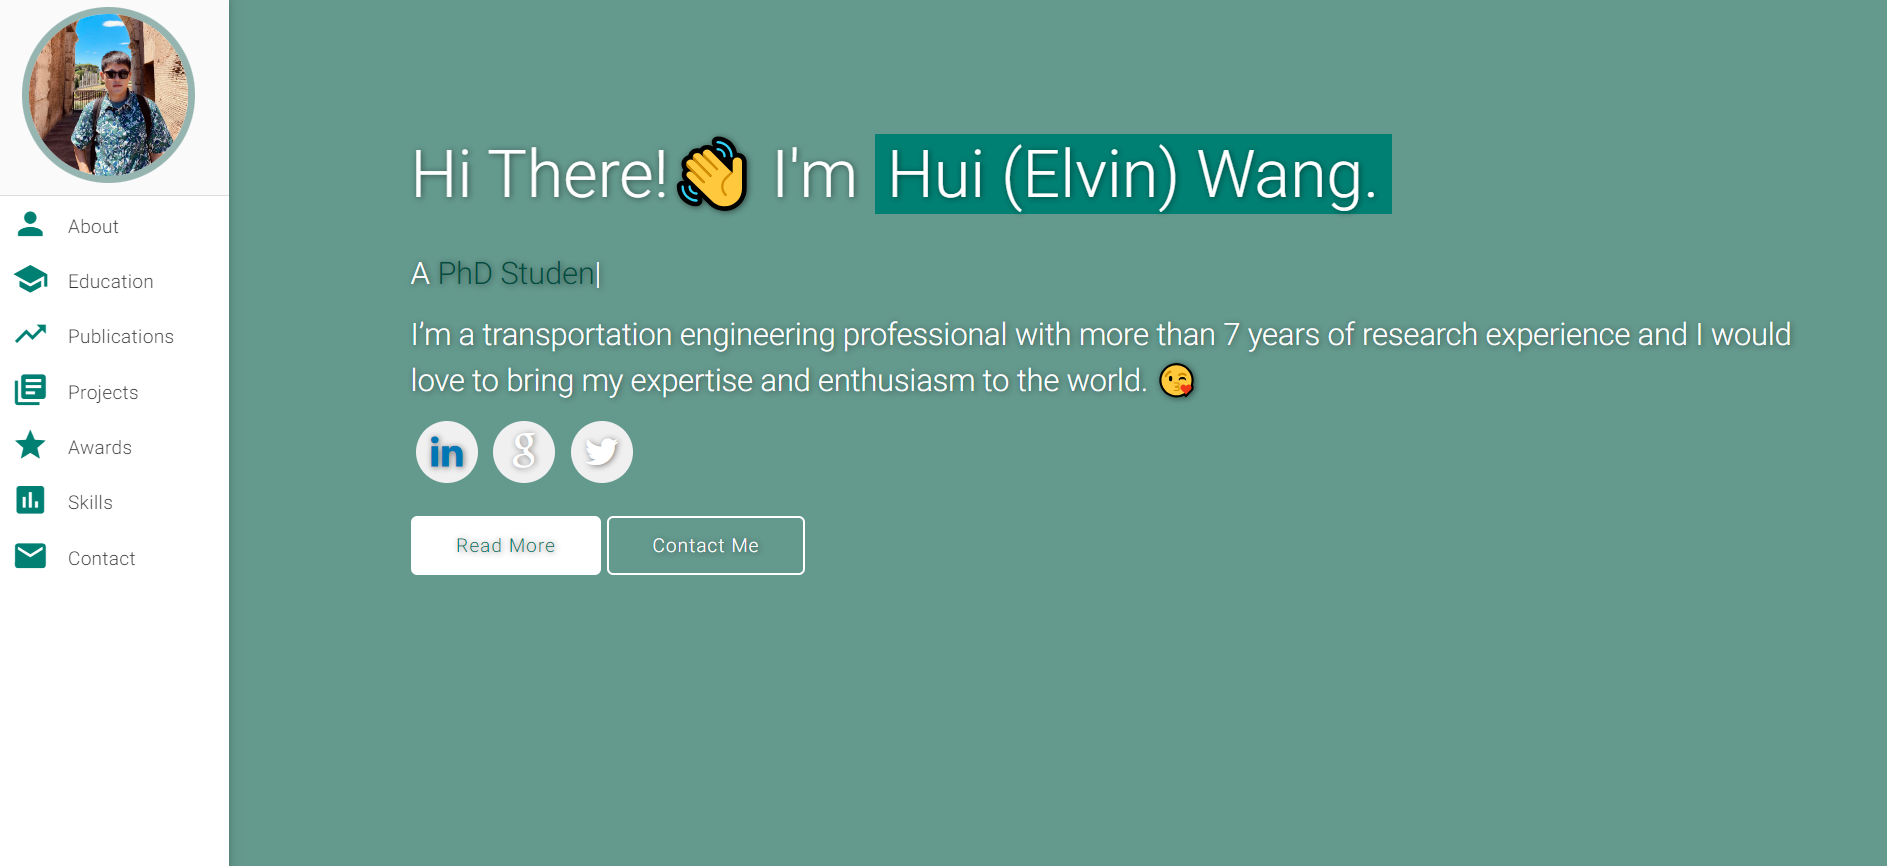
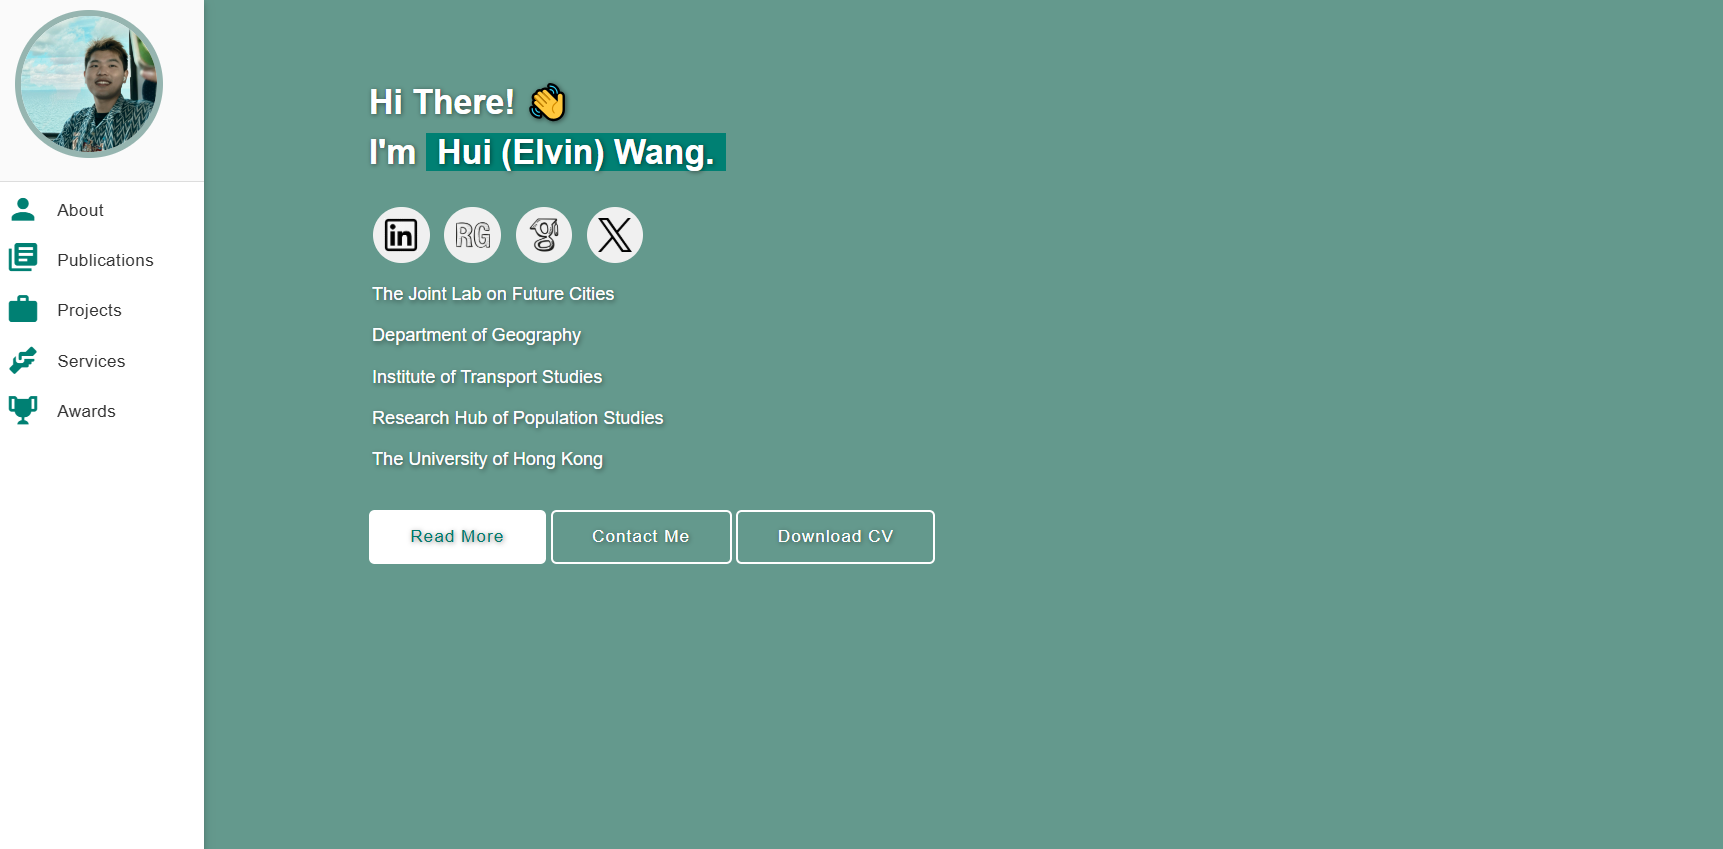
GH

diff --git a/index.html b/index.html
@@ -56,10 +56,10 @@
         <!-- Open Graph -->
         <meta property="og:locale" content="en_US" />
         <meta property="og:type" content="website" />
-        <meta property="og:title" content="Hui Wang | Researcher" />
-        <meta property="og:description" content="Researcher" />
+        <meta property="og:title" content="Hui Wang @ HKU" />
+        <meta property="og:description" content="Hui Wang @ HKU" />
         <meta property="og:url" content="https://huiwanghk.github.io/" />
-        <meta property="og:site_name" content="Hui Wang | Researcher" />
+        <meta property="og:site_name" content="Hui Wang @ HKU" />
         <meta
             property="article:publisher"
             content="https://huiwanghk.github.io/"
@@ -71,18 +71,12 @@
 
         <!-- Twitter -->
         <meta name="twitter:card" content="summary" />
-        <meta name="twitter:site" content="@Hui" />
-        <meta
-            name="twitter:title"
-            content="PhD Candidate | Transportation Researcher | Geography Enthusiast"
-        />
+        <meta name="twitter:site" content="Hui Wang @ HKU" />
+        <meta name="twitter:title" content="Hui Wang @ HKU" />
         <meta name="twitter:description" content="PhD Candidate @ HKU" />
         <meta name="twitter:url" content="https://twitter.com/Elvin_Wang123" />
         <meta name="author" content="Hui Wang" />
-        <meta
-            name="description"
-            content="Transportation Researcher with a passion for better mobility."
-        />
+        <meta name="description" content="Hui Wang @ HKU" />
         <link rel="icon" href="/assets/img/favicon/hku.jpg" />
         <link rel="manifest" href="/assets/img/favicon/manifest.json" />
         <meta name="msapplication-TileColor" content="#ffffff" />
@@ -314,16 +308,6 @@
                         >
                             <i class="mdi mdi-medal small"></i
                             ><span>Awards</span>
-                        </a>
-                    </li>
-                    <li class="bold">
-                        <a
-                            aria-label="Navigate to the Travel section"
-                            href="#travel"
-                            class="waves-effect waves-dark teal-text"
-                        >
-                            <i class="mdi-social-public small"></i
-                            ><span>Travel</span>
                         </a>
                     </li>
                 </ul>
